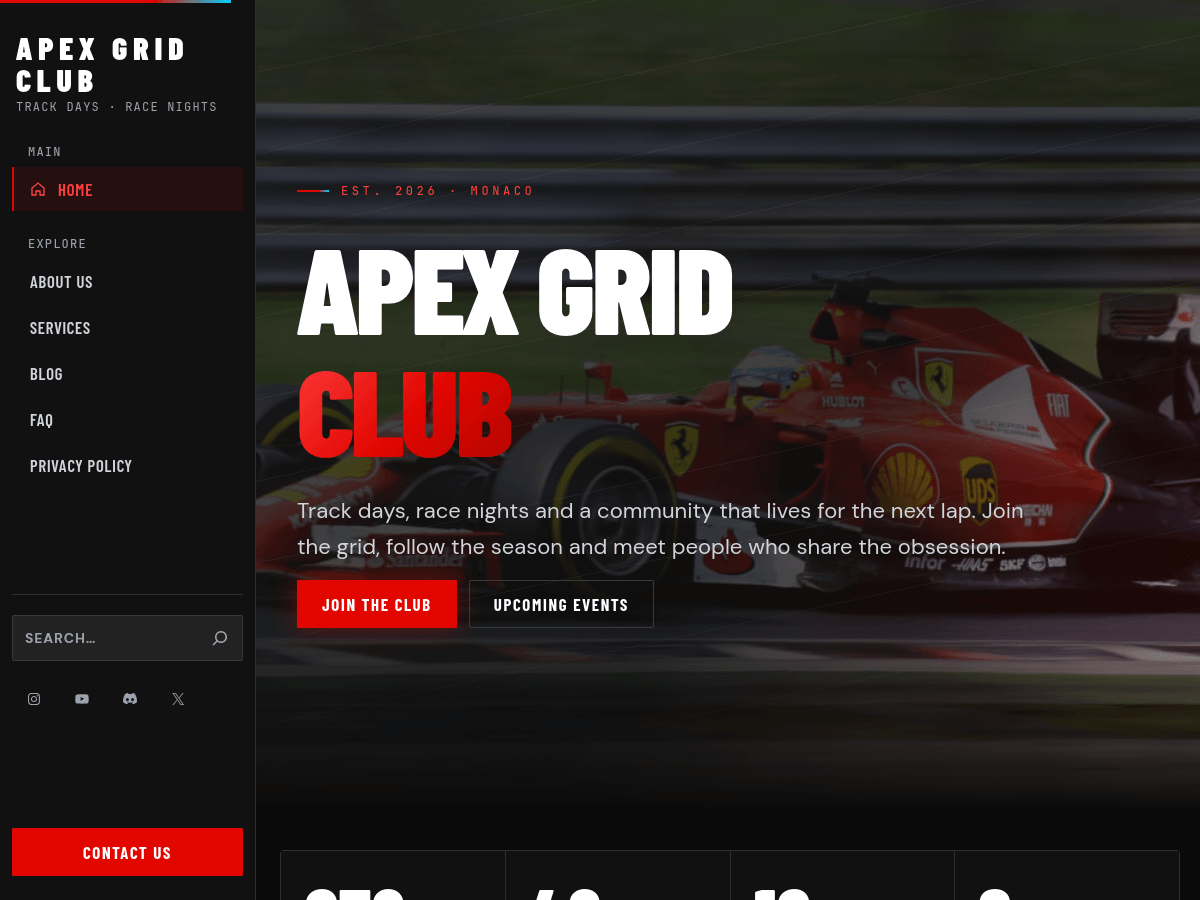
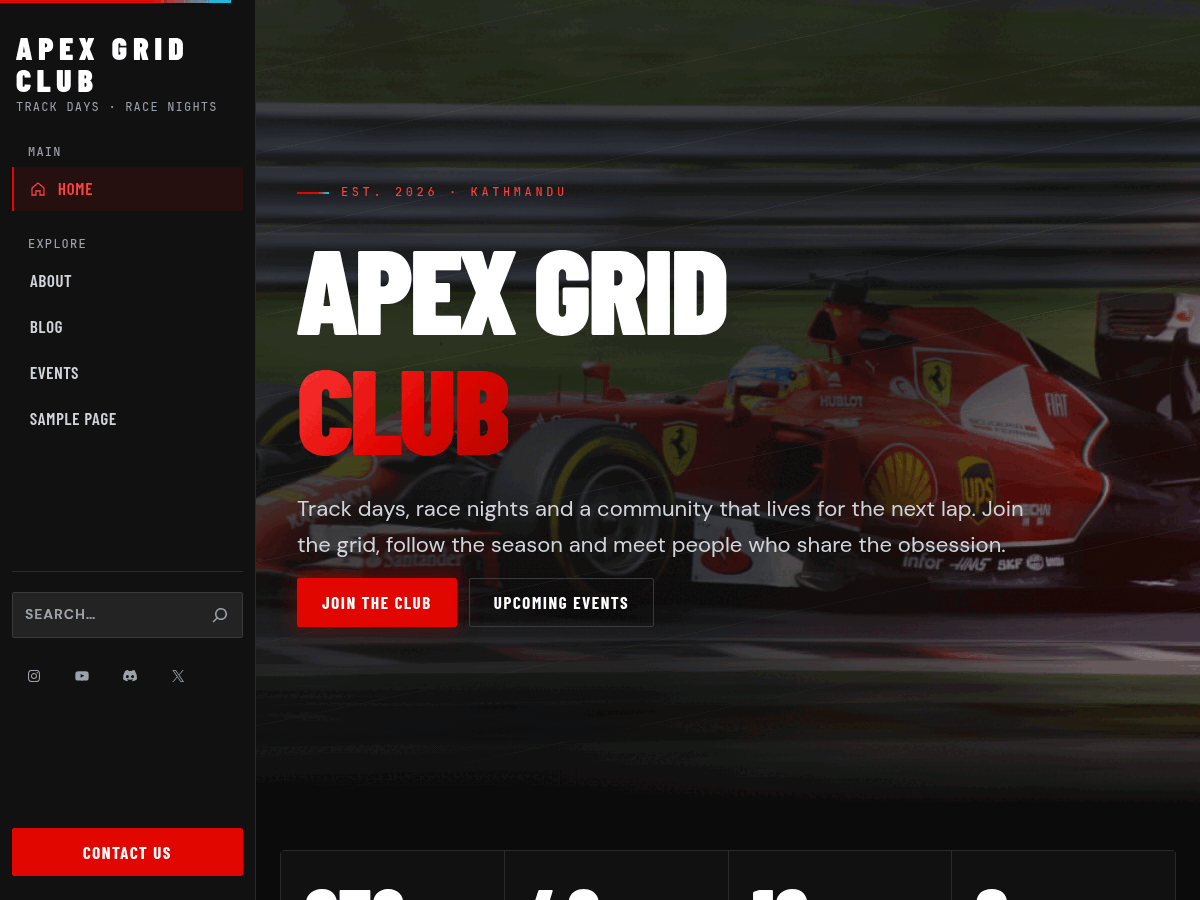
Remove empty Theme URI, change hero kicker location, update screenshot
- Drop the empty Theme URI header from style.css.
- Change the hero kicker from Monaco to Kathmandu (pattern and POT).
- Retake screenshot.png to match the new hero text.

diff --git a/style.css b/style.css
@@ -1,6 +1,5 @@
 /*
 Theme Name: Apex Grid
-Theme URI:
 Author: Rochak Dhakal
 Author URI:https://dhakalrochak.com.np/
 Description: Apex Grid is a dark, motorsport-inspired block theme with a fixed sidebar navigation in place of a top header. Built for clubs, communities, teams and blogs, it uses native blocks, theme.json and Full Site Editing so every part of the layout can be customised in the Site Editor.

diff --git a/patterns/hero.php b/patterns/hero.php
@@ -21,7 +21,7 @@ $apex_grid_images = array(
 <!-- wp:cover {"url":"<?php echo esc_url( $apex_grid_images[0] ); ?>","dimRatio":80,"gradient":"member-card","minHeight":90,"minHeightUnit":"vh","contentPosition":"center left","align":"full","className":"is-style-apex-grid-speed-lines apex-grid-bottom-fade apex-grid-hero","style":{"spacing":{"padding":{"top":"var:preset|spacing|80","bottom":"var:preset|spacing|80"}}},"layout":{"type":"constrained","contentSize":"1200px"}} -->
 <div class="wp-block-cover alignfull has-custom-content-position is-position-center-left is-style-apex-grid-speed-lines apex-grid-bottom-fade apex-grid-hero" style="padding-top:var(--wp--preset--spacing--80);padding-bottom:var(--wp--preset--spacing--80);min-height:90vh"><img class="wp-block-cover__image-background" alt="" src="<?php echo esc_url( $apex_grid_images[0] ); ?>" data-object-fit="cover"/><span aria-hidden="true" class="wp-block-cover__background has-background-dim-80 has-background-dim wp-block-cover__gradient-background has-background-gradient has-member-card-gradient-background"></span><div class="wp-block-cover__inner-container"><!-- wp:group {"style":{"spacing":{"blockGap":"var:preset|spacing|50"}},"layout":{"type":"constrained","contentSize":"760px","justifyContent":"left"}} -->
 <div class="wp-block-group"><!-- wp:paragraph {"className":"is-style-apex-grid-kicker"} -->
-<p class="is-style-apex-grid-kicker"><?php echo esc_html_x( 'Est. 2026 · Monaco', 'Hero kicker', 'apex-grid' ); ?></p>
+<p class="is-style-apex-grid-kicker"><?php echo esc_html_x( 'Est. 2026 · Kathmandu', 'Hero kicker', 'apex-grid' ); ?></p>
 <!-- /wp:paragraph -->
 
 <!-- wp:heading {"level":1,"className":"is-style-apex-grid-gradient-text","style":{"typography":{"lineHeight":"1","letterSpacing":"-0.025em"}},"fontSize":"display"} -->
